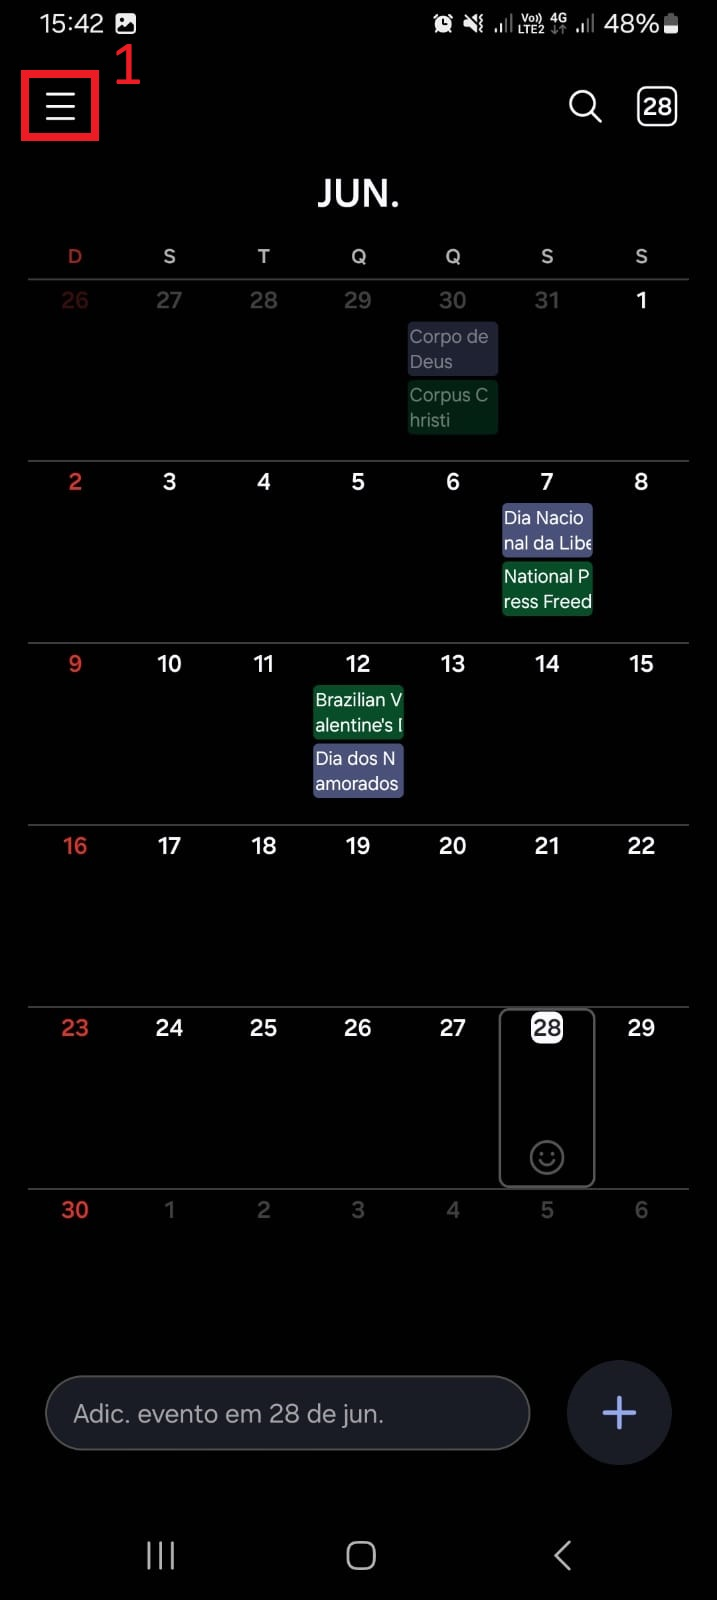
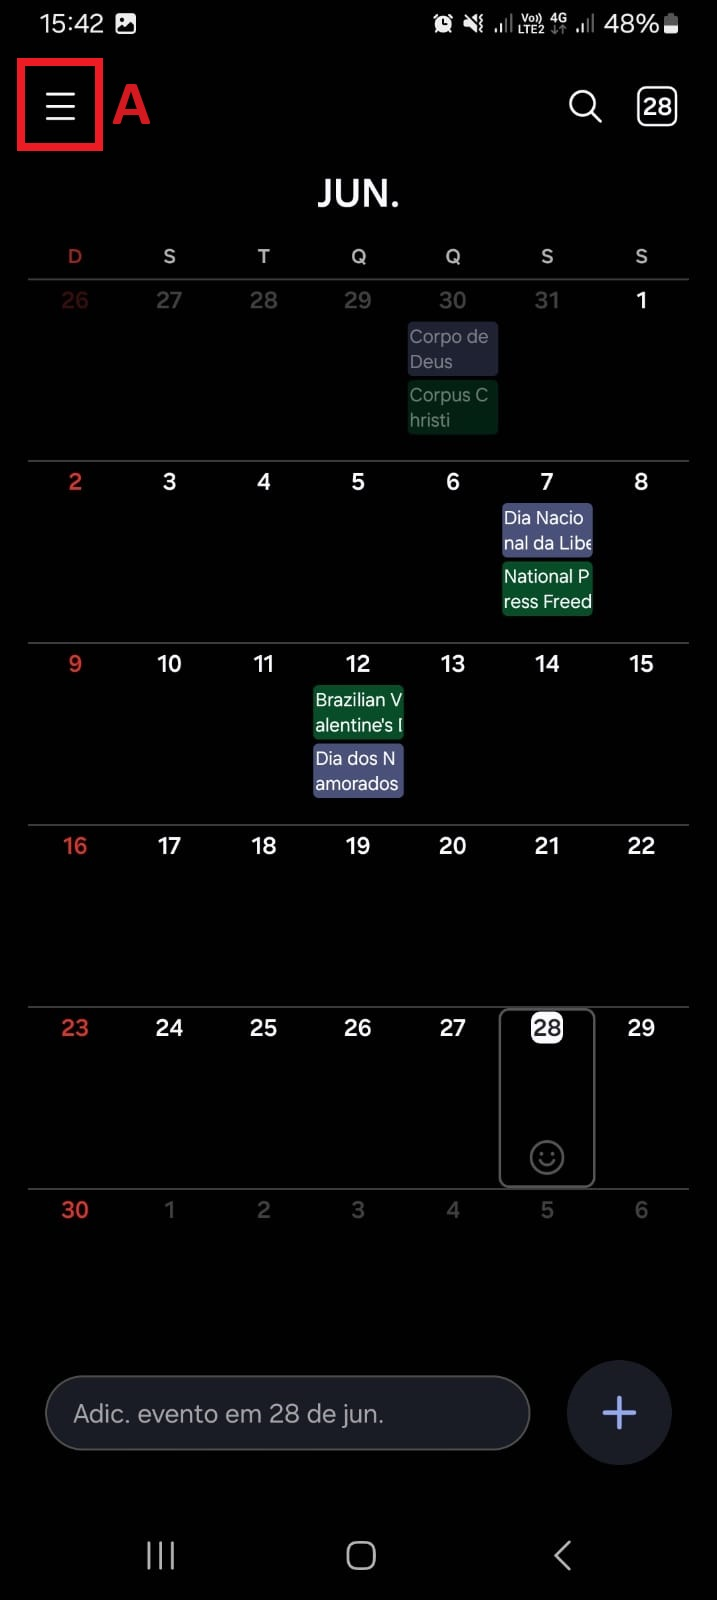
Update 1 Geral

Changed region(s): [[0.0, 0.0312, 0.2148, 0.0938]]

diff --git a/src/app/RMenu/relogio/relogio.page.html b/src/app/RMenu/relogio/relogio.page.html
@@ -48,9 +48,9 @@
   <div class="menu-section">
     <h2 class="menu-title">1 - Alarmes</h2>
     <p class="menu-description">
-      Ao abrir o menu "Alarme"(a) do relógio, você poderá visualizar a tela inicial dos alarmes, podendo criar, editar e excluir alarmes.
+      Ao abrir o menu Alarme do relógio, você poderá visualizar a tela inicial dos alarmes, podendo criar, editar e excluir alarmes.
     </p>
-    <!-- <img src="/assets/calendario/SalvarLembrete.jpg" alt="Imagens" class="menu-image"> -->
+    <img src="/assets/relogio/Menu_Alarme.jpeg" alt="Imagens" class="menu-image">
   </div>
 
   <div class="menu-section">
@@ -58,27 +58,27 @@
     <p class="menu-description">
       Para criar um alarme, basta pressionar o botão "Mais" no canto direito da tela, assim como mosta a imagem a seguir:
     </p>
-    <!-- <img src="/assets/calendario/AbaLembretes.jpg" alt="Imagens" class="menu-image"> -->
+    <img src="/assets/relogio/Mais_Alarme.jpg" alt="Imagens" class="menu-image">
     <p class="menu-description">
-     Após pressionar o "Mais", você poderá configurar o alarme de acordo com sua preferência, colocando a hora do alarme(a), os dias da semana(b), nome do alarme(c) e toque(d).
+     Após pressionar o "Mais", você poderá configurar o alarme de acordo com sua preferência, colocando a hora do alarme (A), os dias da semana (B), nome do alarme (C) e toque(D).
     </p>
-    <!-- <img src="/assets/calendario/ExcluirLembrete.jpg" alt="Imagens" class="menu-image"> -->
+    <img src="/assets/relogio/Opcoes_Alarme.jpg" alt="Imagens" class="menu-image">
     <p class="menu-description">
       Depois de configurado, basta clicar no botão "Salvar" e seu alarme estará criado.
      </p>
-     <!-- <img src="/assets/calendario/ExcluirLembrete.jpg" alt="Imagens" class="menu-image"> -->
+     <img src="/assets/relogio/Salvar_Alarme.jpg" alt="Imagens" class="menu-image">
   </div>
 
   <div class="menu-section">
     <h2 class="menu-title">3 - Editando Alarmes</h2>
     <p class="menu-description">
-      Para editar um alarme, pressionar o dedo em cima do alarme desejado, assim como mostra a imagem a seguir:
+      Para editar um alarme, pressione o dedo em cima do alarme desejado, assim como mostra a imagem a seguir:
     </p>
-    <!-- <img src="/assets/calendario/AbaLembretes.jpg" alt="Imagens" class="menu-image"> -->
+    <img src="/assets/relogio/Editando_Alarme.jpg" alt="Imagens" class="menu-image">
     <p class="menu-description">
      Após pressionado, o menu para editar o alarme irá abrir e basta fazer as modificações desejadas
     </p>
-    <!-- <img src="/assets/calendario/EditarLembrete.jpg" alt="Imagens" class="menu-image"> -->
+    <img src="/assets/relogio/Alarme.jpeg" alt="Imagens" class="menu-image">
   </div>
 
   <div class="menu-section">
@@ -86,7 +86,7 @@
     <p class="menu-description">
       Desativar um alarme é muito simples, basta pressionar uma vez o botão de "Desativar", no canto direito do alarme desejado. Na imagem a seguir, o "Alarme 1" é usado como exemplo.
     </p>
-    <!-- <img src="/assets/calendario/AbaLembretes.jpg" alt="Imagens" class="menu-image"> -->
+    <img src="/assets/relogio/Desativando_Alarme.jpg" alt="Imagens" class="menu-image">
     <p class="menu-description">
       Se deseja reativar o alarme, basta pressionar mais uma vez o mesmo botão e seu alarme irá ativar novamente.
     </p>
@@ -95,9 +95,9 @@
   <div class="menu-section">
     <h2 class="menu-title">5 - Excluindo Alarmes</h2>
     <p class="menu-description">
-      Para excluir um alarme, basta selecioná-lo mantendo pressionado o dedo em cima do alarme desejado(a) e em seguida, clicar no botão "Excluir"(b) no canto inferior direito da tela.
+      Para excluir um alarme, basta selecioná-lo mantendo pressionado o dedo em cima do alarme desejado(a) e em seguida, clicar no botão "Excluir" no canto inferior direito da tela.
     </p>
-    <!-- <img src="/assets/calendario/AbaLembretes.jpg" alt="Imagens" class="menu-image"> -->
+    <img src="/assets/relogio/Excluir_Alarme.jpg" alt="Imagens" class="menu-image">
   </div>
 
   <div class="bottom-button">

diff --git a/src/app/GMenu/galeria/galeria.page.html b/src/app/GMenu/galeria/galeria.page.html
@@ -44,7 +44,7 @@
     <img src="/assets/galeria/1_Menu.jpg" alt="Menu Image" class="menu-image">
 
     <p class="menu-description">
-      Na primeira tela após abrir a galeria você pode visualizar os seguintes menus: "Imagens"(a) e "Álbuns"(b).
+      Na primeira tela após abrir a galeria você pode visualizar os seguintes menus: "Imagens" (A) e "Álbuns" (B).
     </p>
 
   </div>
@@ -64,12 +64,12 @@
   <div class="menu-section">
     <h2 class="menu-title">3 - Selecionando Imagens</h2>
 
-    <img src="/assets/galeria/2_1SelecImg.jpg" alt="Imagens" class="menu-image">
+    <img src="/assets/galeria/3_SelecImagens.jpg" alt="Imagens" class="menu-image">
 
     <p class="menu-description">
       Ao manter pressionado o dedo na imagem desejada, você irá seleciona-la, podendo assim selecionar outras imagens
       (ou somente uma) para depois escolher
-      uma ação desejada, como: "Compartilhar"(a), "Excluir"(b) e "Mais"(c), marcados na imagem a seguir:
+      uma ação desejada, como: "Compartilhar" (A), "Excluir"(B) e "Mais"(C), marcados na imagem a seguir:
     </p>
 
   </div>
@@ -77,16 +77,15 @@
   <div class="menu-section">
     <h2 class="menu-title">4 - Compartilhando Imagens</h2>
 
-    <img src="/assets/galeria/2_2_CompImg.jpg" alt="Imagens" class="menu-image">
+    <img src="/assets/galeria/4_Compartilhar.jpg" alt="Imagens" class="menu-image">
 
     <p class="menu-description">
       Ao selecionar a(s) imagem(s) desejada(s) e pressionar o botão de compartilhar, o celular mostrará a(s) imagem(s)
       selecionada(s), seus contatos recentes para enviar
-      a(s) imagem(s)(a) e os aplicativos para você compartilhar a(s) imagem(s)(b).<br>
+      a(s) imagem(s) (A) e os aplicativos para você compartilhar a(s) imagem(s) (B).<br>
       Após selecionar o aplicativo que deseja encaminhar a(s) imagem(s), o celular abrirá o aplicativo
       correspondente.
     </p>
-
   </div>
 
   <div class="menu-section">

diff --git a/src/app/RMenu/rmundi/rmundi.page.html b/src/app/RMenu/rmundi/rmundi.page.html
@@ -48,7 +48,7 @@
     <p class="menu-description">
       Ao abrir o menu "Relógio Mundial" do relógio, você poderá visualizar a tela inicial, podendo adicionar ou excluir hórarios de relógios mundiais.
     </p>
-    <!-- <img src="/assets/calendario/SalvarLembrete.jpg" alt="Imagens" class="menu-image"> -->
+    <img src="/assets/relogio/RelogioMundi.jpeg" alt="Imagens" class="menu-image">
   </div>
 
   <div class="menu-section">
@@ -56,15 +56,15 @@
     <p class="menu-description">
       Para adicionar o horário de um relógio mundial, primeiro pressione o botão "Mais" no canto direito da tela.
     </p>
-    <!-- <img src="/assets/calendario/AbaLembretes.jpg" alt="Imagens" class="menu-image"> -->
+    <img src="/assets/relogio/Adicionar_RelogioM.jpg" alt="Imagens" class="menu-image">
     <p class="menu-description">
       Acessando o menu, você poderá pesquisar o nome da cidade atraves da "Lupa".
     </p>
-    <!-- <img src="/assets/calendario/ExcluirLembrete.jpg" alt="Imagens" class="menu-image"> -->
+    <img src="/assets/relogio/Lupa_Mundo.jpeg" alt="Imagens" class="menu-image">
     <p class="menu-description">
-      Após escolher a cidade desejada, basta clicar em seu nome e o mapa mundi ira apontar a cidade desejada. Basta clicar em adicionar e pronto, seu relógio mundial será adicionado. Exemplo da cidade de París:
+      Após escolher a cidade desejada, basta clicar em seu nome e o mapa mundi ira apontar a cidade desejada. Basta clicar em "Adicionar" e pronto, seu relógio mundial será adicionado. Exemplo da cidade de París:
     </p>
-    <!-- <img src="/assets/calendario/ExcluirLembrete.jpg" alt="Imagens" class="menu-image"> -->
+    <img src="/assets/relogio/Adicionar_Horario.jpg" alt="Imagens" class="menu-image">
   </div>
 
   <div class="menu-section">

diff --git a/src/app/CMenu/calendario/calendario.page.html b/src/app/CMenu/calendario/calendario.page.html
@@ -45,11 +45,11 @@
     <div class="menu-section">
       <h2 class="menu-title">1 - Configurações</h2>
       <p class="menu-description">
-        Primeiramente, para acessar a aba de configurações, clique no menu lateral do calendário no canto superior esquerdo de sua tela(a).
+        Primeiramente, para acessar a aba de configurações, clique no menu lateral do calendário no canto superior esquerdo de sua tela (A).
       </p>
       <img src="/assets/calendario/1_MenuCalendario.jpg" alt="Imagens" class="menu-image">
-      <p class="menu-description">Após acessar o menu, clique no símbolo de uma "Engrenagem"(b), assim como a figura abaixo:</p>
-      <img src="/assets/calendario/Engrenagem.jpg" alt="Imagens" class="menu-image">
+      <p class="menu-description">Após acessar o menu, clique no símbolo de uma "Engrenagem" (B), assim como a figura abaixo:</p>
+      <img src="/assets/calendario/Engrenagem_Calendario.jpg" alt="Imagens" class="menu-image">
       <p class="menu-description">No menu de configurações você podera editar o formato do seu calendário de acordo com o seu gosto, como mostra a figura a seguir:</p>
       <img src="/assets/calendario/ConfigCalendario.jpeg" alt="Imagens" class="menu-image">
       <p class="menu-subtitle">Alterar Estilo do Calendário</p>

diff --git a/src/app/GMenu/gpage2/gpage2.page.html b/src/app/GMenu/gpage2/gpage2.page.html
@@ -44,9 +44,9 @@
 
   <div class="menu-section">
     <h2 class="menu-title">1 - Álbuns</h2>
-    <img src="/assets/galeria/3_AlbunsMenu.jpg" alt="Imagens" class="menu-image">
+    <img src="/assets/galeria/1_Album.jpg" alt="Imagens" class="menu-image">
     <p class="menu-description">
-      Ao acessar o menu de "Álbuns"(a), no centro da tela você poderá visualizar todos os álbuns criados no seu celular.<br>
+      Ao acessar o menu de "Álbuns", no centro da tela você poderá visualizar todos os álbuns criados no seu celular.<br>
       Álbuns foram criados para facilitar a organização de fotos e vídeos do seu celular.
     </p>
   </div>
@@ -58,7 +58,7 @@
     </p>
     <img src="/assets/galeria/3_1_1AlbunsMenu.jpg" alt="Imagens" class="menu-image">
     <p class="menu-description">
-      Agora selecione o primeiro menu  chamado "Álbum".
+      Agora selecione o primeiro menu chamado "Álbum".
     </p>
     <img src="/assets/galeria/3_1_2CriaAlbum.jpg" alt="Imagens" class="menu-image">
   </div>

diff --git a/src/app/CMenu/cpage2/cpage2.page.html b/src/app/CMenu/cpage2/cpage2.page.html
@@ -72,9 +72,9 @@
       Tela de Lembrete
     </p>
     <p class="menu-description">
-      Abrindo a tela de lembretes, você pode configurá-lo da maneira que desejar, adicionando um título(a), escolhendo o período do lembrete(b), local(c) e a hora da notificação do evento(d).<br>
+      Abrindo a tela de lembretes, você pode configurá-lo da maneira que desejar, adicionando um título (A), escolhendo o período do lembrete (B), local (C) e a hora da notificação do evento (D).<br>
     </p>
-    <img src="/assets/calendario/TelaLembrete.jpg" alt="Imagens" class="menu-image">
+    <img src="/assets/calendario/Tela_Lembrete.jpg" alt="Imagens" class="menu-image">
     <img src="/assets/calendario/SalvarLembrete.jpg" alt="Imagens" class="menu-image">
     <p class="menu-description">
       Após editar o lembrete como desejar, basta clicar em "Salvar" e seu lembrete estará pronto.
